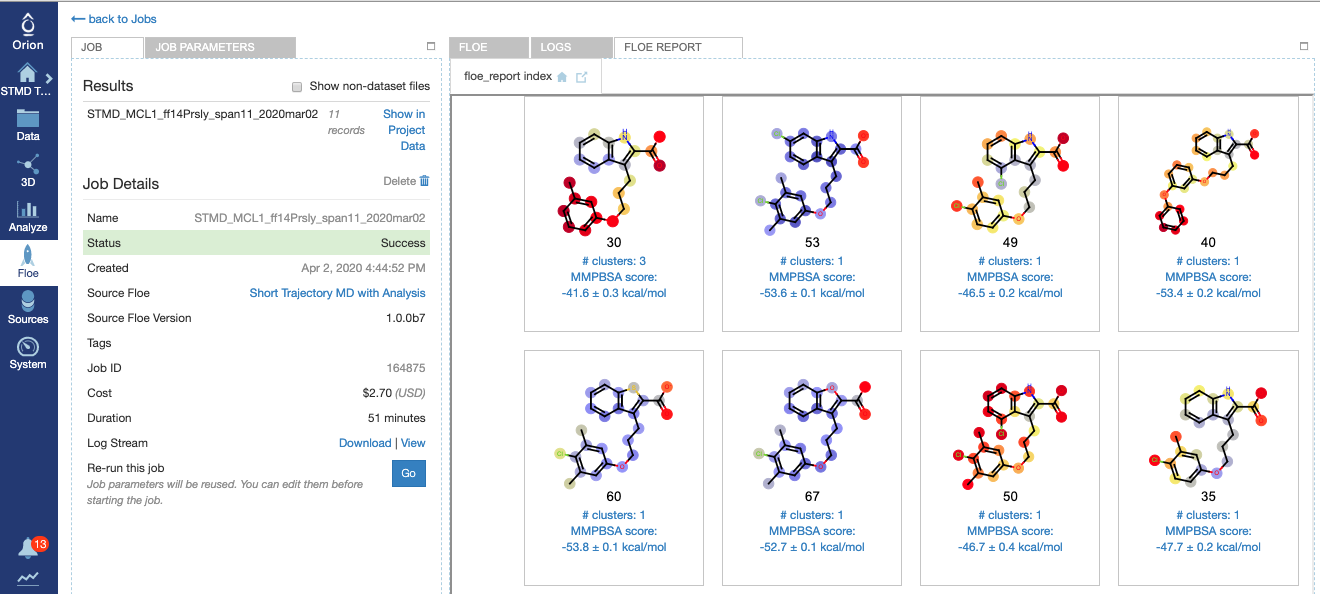
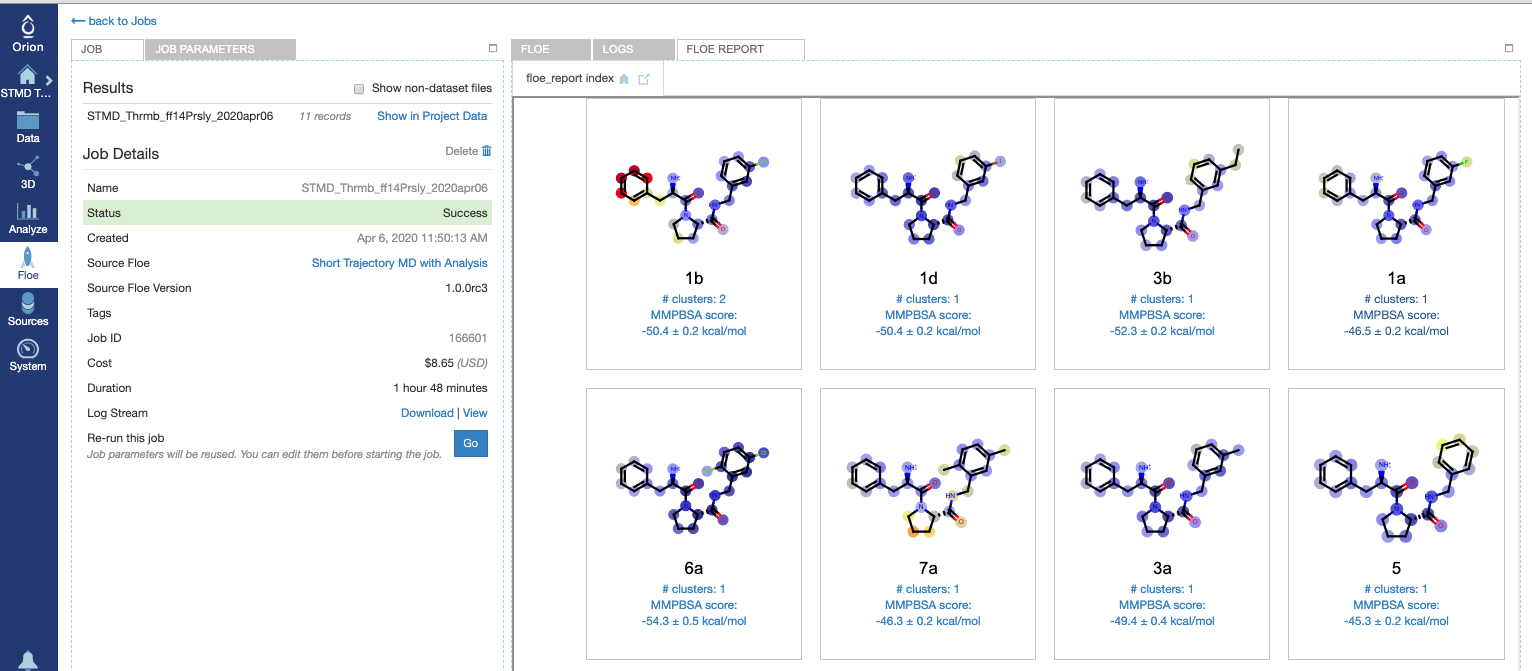
modified tutorial example from MCL1 to Thrombin

diff --git a/docs/source/tutorials.rst b/docs/source/tutorials.rst
@@ -132,20 +132,20 @@ The left panel contains the usual orion job information from the run,
 and the right panel has two tabs at the top if the run was not successful
 or three tabs at the top if it was... we will focus on success here!
 Selecting the third tab called *FLOE REPORT* should give you a
-page looking similar to Figure `STMD Job results page for the MCL1 Dataset`.
+page looking similar to Figure `STMD Job results page for the Thrombin Dataset`.
 
 .. figure_STMD_jobResults:
 
 .. figure:: ./images/STMD_jobResults.png
    :width: 1000px
    :align: center
-   :alt: STMD Job results page for the MCL1 Dataset
+   :alt: STMD Job results page for the Thrombin Dataset
 
-   **STMD Job results page for the MCL1 Dataset**
+   **STMD Job results page for the Thrombin Dataset**
 
 The floe report shows a tile for each MD simulation, here there was
 only one conformer for each ligand in the input file.
-This run was on 11 ligands in a MCL1 dataset; in the figure 8 of the
+This run was on 11 ligands in a Thrombin dataset; in the figure 8 of the
 11 are shown (to see the other 3 would require scrolling down).
 The atom colors correspond to calculated B-factors, similar to Xray
 B-factors, depicting the mobility of those atoms in the active site
@@ -158,31 +158,31 @@ fragments hanging out in water of even a tightly bound inhibitor will be expecte
 to be more mobile than the buried parts.
 Other information on each tile is:
 
-    * The ligand name; in the MCL1 case in the figure these are simply integers.
+    * The ligand name.
 
     * The number of clusters formed by clustering the ligand positions in the MD trajectory.
 
     * The ensemble average MMPBSA score for ligand binding over the whole MD trajectory.
 
 Clicking on a tile drills down into the detailed analysis of that simulation.
-As an example, clicking on the top left tile, for ligand 30 with 3 clusters,
-results in Figure `Detailed results for ligand 30`:
+As an example, clicking on the top left tile, for ligand 1b with 2 clusters,
+results in Figure `Detailed results for ligand 1b`:
 
 
-.. figure_STMD_lig30interactiveSVG:
+.. figure_STMD_lig1b_interactiveSVG:
 
-.. figure:: ./images/STMD_lig30interactiveSVG.png
+.. figure:: ./images/STMD_lig1b_interactiveSVG.png
    :width: 1000px
    :align: center
-   :alt: Detailed results for ligand 30
+   :alt: Detailed results for ligand 1b
 
-   **Detailed results for ligand 30**
+   **Detailed results for ligand 1b**
 
 In the graphic we see a 2D representation of the ligand binding
 interactions for the whole trajectory, with the default display
 of the `Overall` tab at the top of the graphic. It is an interactive
-graphic: selecting the `Cluster 0` tab in blue, the `Cluster 1` tab
-in green, or the `Cluster 2` tab in orange, will change the binding
+graphic: selecting the `Cluster 0` tab in blue or the `Cluster 1` tab
+in green will change the binding
 interaction representation to that corresponding to the selected cluster.
 Hovering over one of the interaction in the diagram lights up a
 strip chart on the right-hand side grey arrow showing the occupancy
@@ -198,77 +198,76 @@ amino acid close to the ligand. To the right of the graphic is
 information about the clustering of the ligand trajectory.
 
 Scrolling down exposes two strip charts detailing two relevant
-analyses of the trajectory, as shown for ligand 30
-in Figure `Strip Chart results for ligand 30`:
+analyses of the trajectory, as shown for ligand 1b
+in Figure `Strip Chart results for ligand 1b`:
 
-.. figure_STMD_lig30stripCharts:
+.. figure_STMD_lig1b_stripCharts:
 
-.. figure:: ./images/STMD_lig30stripCharts.png
+.. figure:: ./images/STMD_lig1b_stripCharts.png
    :width: 800px
    :align: center
-   :alt: Strip Chart results for ligand 30
+   :alt: Strip Chart results for ligand 1b
 
-   **Strip Chart results for ligand 30**
+   **Strip Chart results for ligand 1b**
 
 Both strip charts show a time course over the MD trajectory,
 maintaining always the same color scheme as in the interactive graphic:
-blue, green, and orange for cluster 0, 1, and 2, respectively.
+blue and green for cluster 0 and 1, respectively.
 Additionally, cluster outliers, which are ligand configurations
 determined by HDBSCAN clustering to not belong to any cluster,
 are shown in black.
 The top strip chart simply shows the cluster occupancy of each frame,
-telling us that the trajectory started out in the orange Cluster 2,
-then transitioned gradually to the blue Cluster 0, then occupying
-green Cluster 1 for a while before reverting back to Cluster 0.
+telling us that the trajectory started out in the green Cluster 1,
+then transitioned quickly to the blue Cluster 0, where it remained
+for the rest of the trajectory.
 From this sampling, it appears Cluster 0 is the predominant and
 preferred cluster.
 The lower strip chart shows how closely the ligand stays to the
 initial input ligand pose over the course of the trajectory,
 colored by cluster.
-The green Cluster 1 includes comprises configuration straying
-around 2 |A| away from the initial pose, but blue Cluster 0
-sticks fairly closely to the initial pose at around 1 |A|,
-while orange Cluster 2 hovers in between.
+The green Cluster 1 comprises configurations sticking closely
+to the initial pose (< 2 |A| RMSD), but blue Cluster 0
+fluctuates between 1.5 to 2 |A| away.
 This tells us the predominant and preferred blue Cluster 0
-stays close to the initial pose: the initial pose is stable.
+stays slightly away from the initial pose.
 
 Moving now to the other way of viewing the results, we go to
 Orion's `Data` page for our project and select the output dataset
 for our job, and then move to Orion's `Analyze` page as shown in
-Figure `Analyze page for ligand 30`:
+Figure `Analyze page for ligand 1b`:
 
-.. figure_STMD_lig30analyze:
+.. figure_STMD_lig1b_analyze:
 
-.. figure:: ./images/STMD_lig30analyze.png
+.. figure:: ./images/STMD_lig1b_analyze.png
    :width: 1000px
    :align: center
-   :alt: Analyze page for ligand 30
+   :alt: Analyze page for ligand 1b
 
-   **Analyze page for ligand 30**
+   **Analyze page for ligand 1b**
 
-There is a lot of results showing in this page, encompassing
+There are a lot of results showing in this page, encompassing
 both numerical and 3D information. The 3D info is brought in by
 selecting `Analyze 3D` under the `Layout` pull-down menu at the
 top right. The axes of the scatterplot were selected to display
 the experimental deltaG (included as an SD tag on the input
 ligands) on the x axis and the trajectory MMPBSA mean on the y axis.
-Scrolling down the spreadsheet to ligand 30 and selecting that
+Scrolling down the spreadsheet to ligand 1b and selecting that
 row, the 3D visualizer jumps to a series of entries relating to
-ligand 30 and the point in the scatter plot corresponding to
-ligand 30 is highlighted.
-In the 3D window, the initial input pose for ligand 30 is shown in gold.
-Expanding the menu under `Average 30` allows us to turn on the
-average structure for each of Clusters 0, 1, and 2, again maintaining
-the colors for each of blue, green, and orange, respectively.
-Underneath `Average 30` is `Average MCL1`, expanding this allows
+ligand 1b and the point in the scatter plot corresponding to
+ligand 1b is highlighted.
+In the 3D window, the initial input pose for ligand 1b is shown in gold.
+Expanding the menu under `Average 1b` allows us to turn on the
+average structure for Clusters 0 and 1, again maintaining
+the colors for each of blue and green, respectively.
+Underneath `Average 1b` is `Average Thrmb`, expanding this allows
 us to examine the corresponding average protein structure,
 in matching color, binding the average ligand for each cluster.
 This way we can compare the initial bound pose to the representative
 average for each cluster, helping us to evaluate and prioritize that ligand.
 To call up the detailed MD analysis once again, go to the spreadsheet
-row for ligand 30, and under the column titled `Floe_report_URL`
+row for ligand 1b, and under the column titled `Floe_report_URL`
 clicked on the little square will open up another tab in your
-browser with the same detailed analysis floe report for ligand 30.
+browser with the same detailed analysis floe report for ligand 1b.
 
 There is a lot of information to look at in the results from
 the *Short Trajectory MD with Analysis* floe, but this should get
